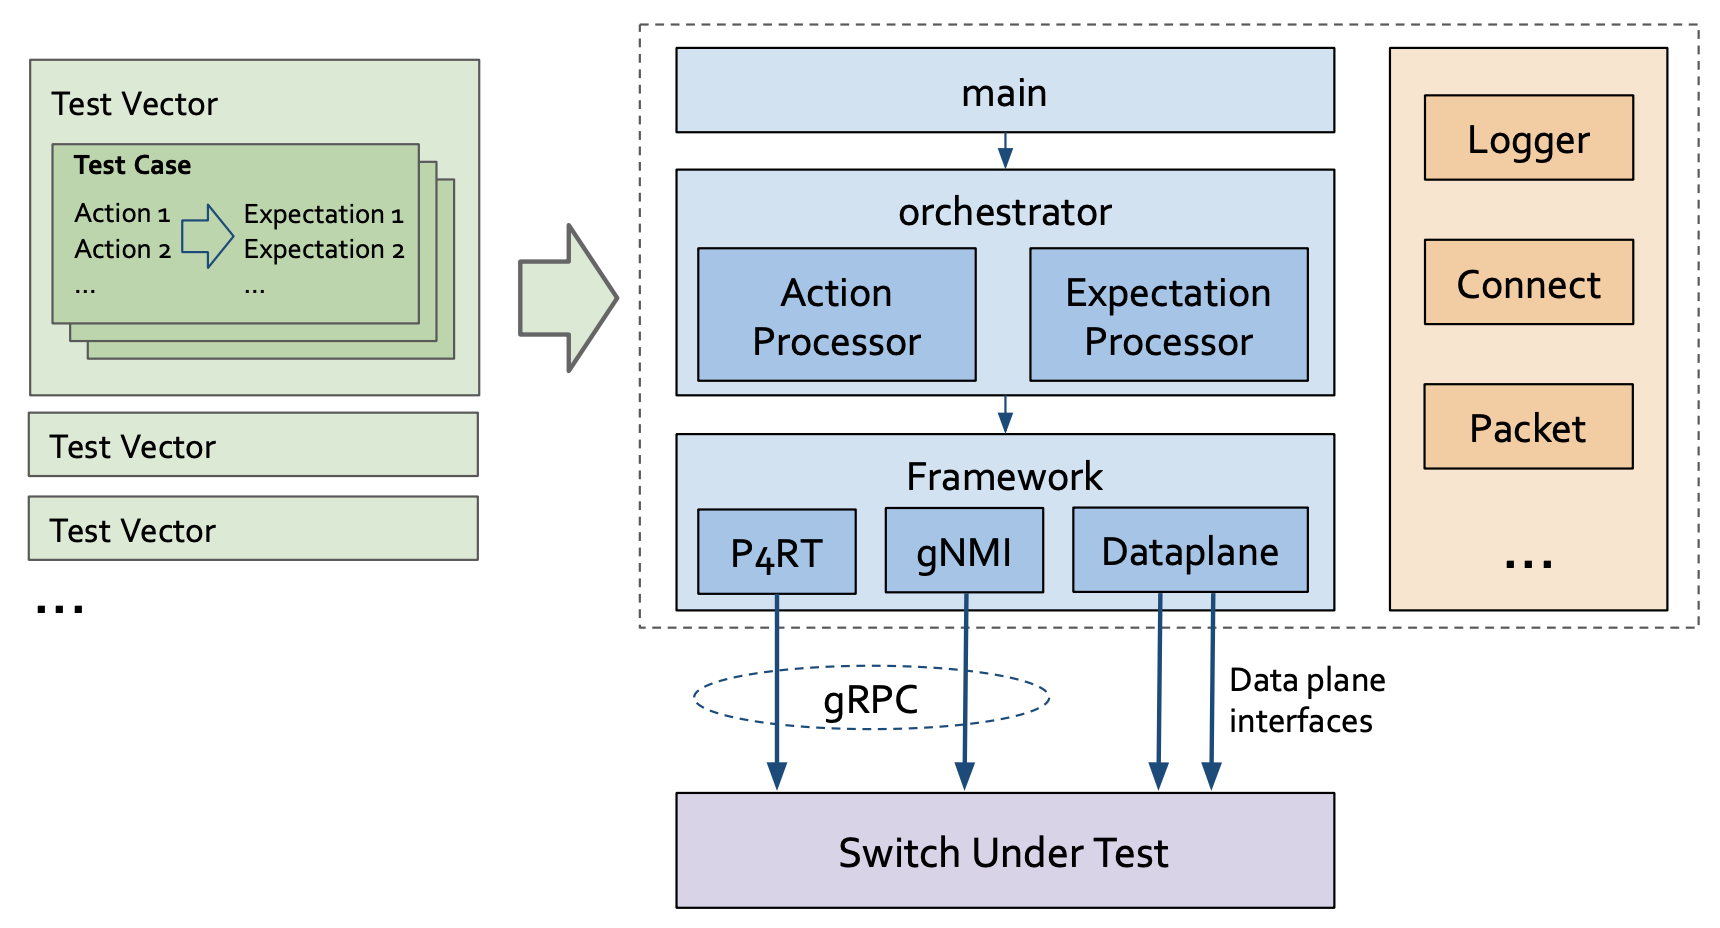
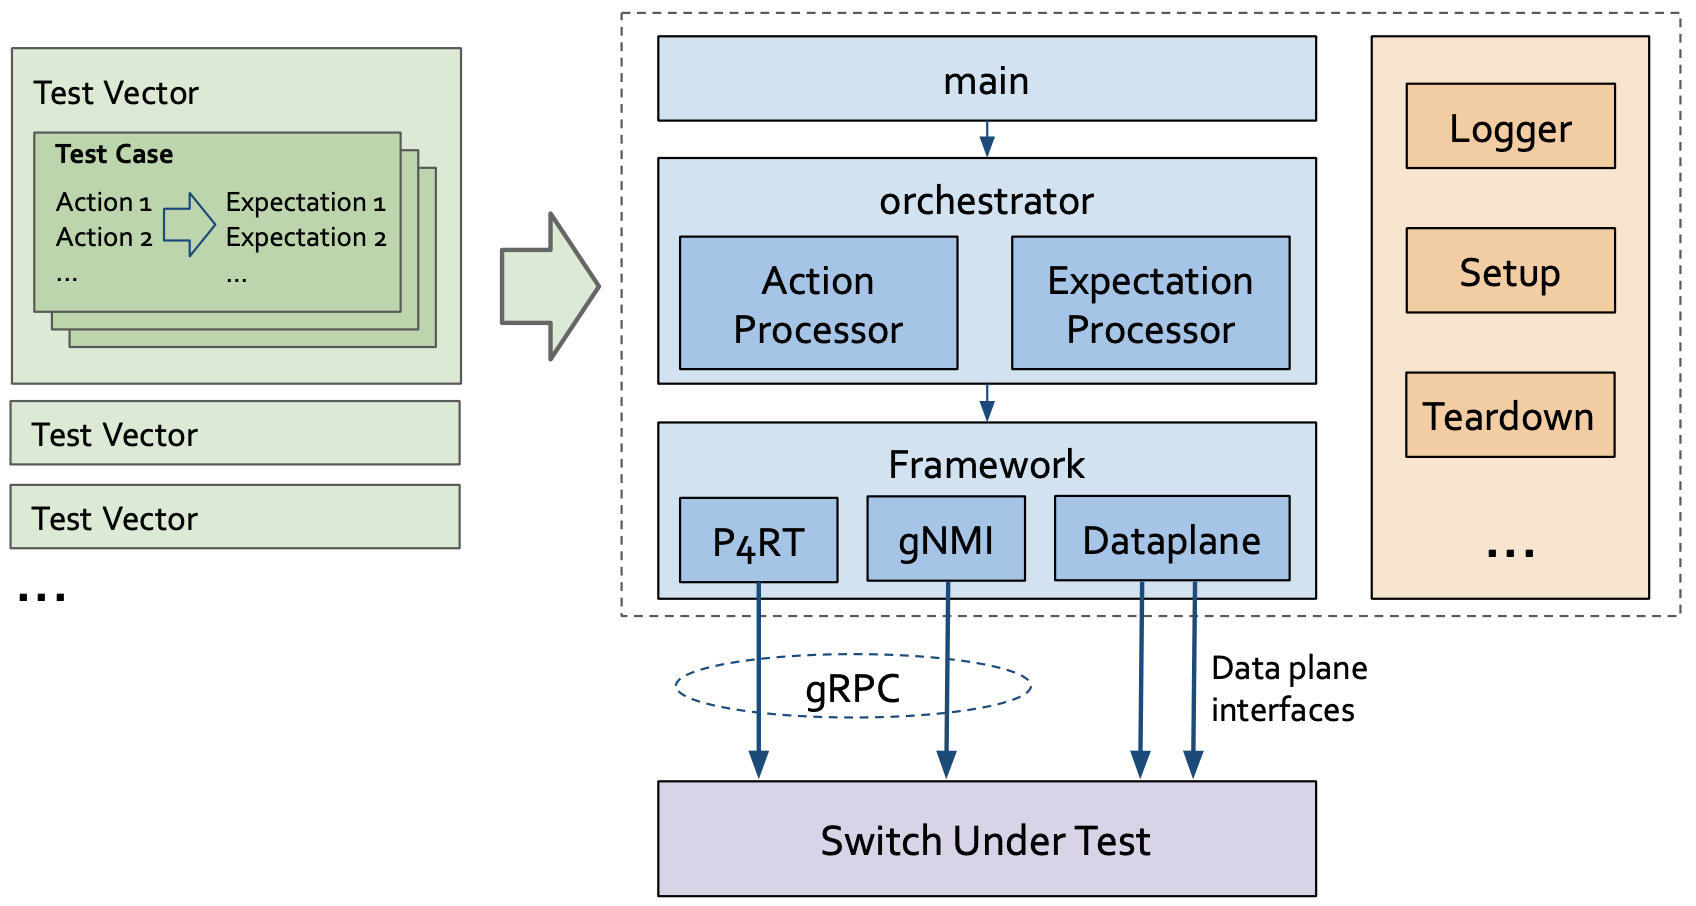
Update docs

Changed region(s): [[0.0, 0.0, 1.0, 1.0], [0.875, 0.5872, 0.9062, 0.6181], [0.5938, 0.7417, 0.625, 0.7726]]

diff --git a/docs/architecture.md b/docs/architecture.md
@@ -1,3 +1,3 @@
 # Test Vectors Runner Architecture
 ![architecture](images/architecture.png)
-Test Vector Runner reads from one or multiple [Test Vector](https://github.com/opennetworkinglab/testvectors) files and compiles them with an orchestrator by processing various types of actions and expectations. And eventually based on the action or expectation type, the orchestrator calls different framework modules to build and send or receive either gRPC messages or data plane packets. We also provide libraries which provides common functions for logging, gRPC connection establishment and packet IO.
+Test Vector Runner reads from one or multiple [Test Vector](https://github.com/stratum/testvectors) files and compiles them with an orchestrator by processing various types of Actions and Expectations. And based on the Action or Expectation type, the orchestrator calls corresponding framework modules to build and send/receive either gRPC messages or data plane packets. We also provide libraries which provide common functions for logging, test setup and teardown.
